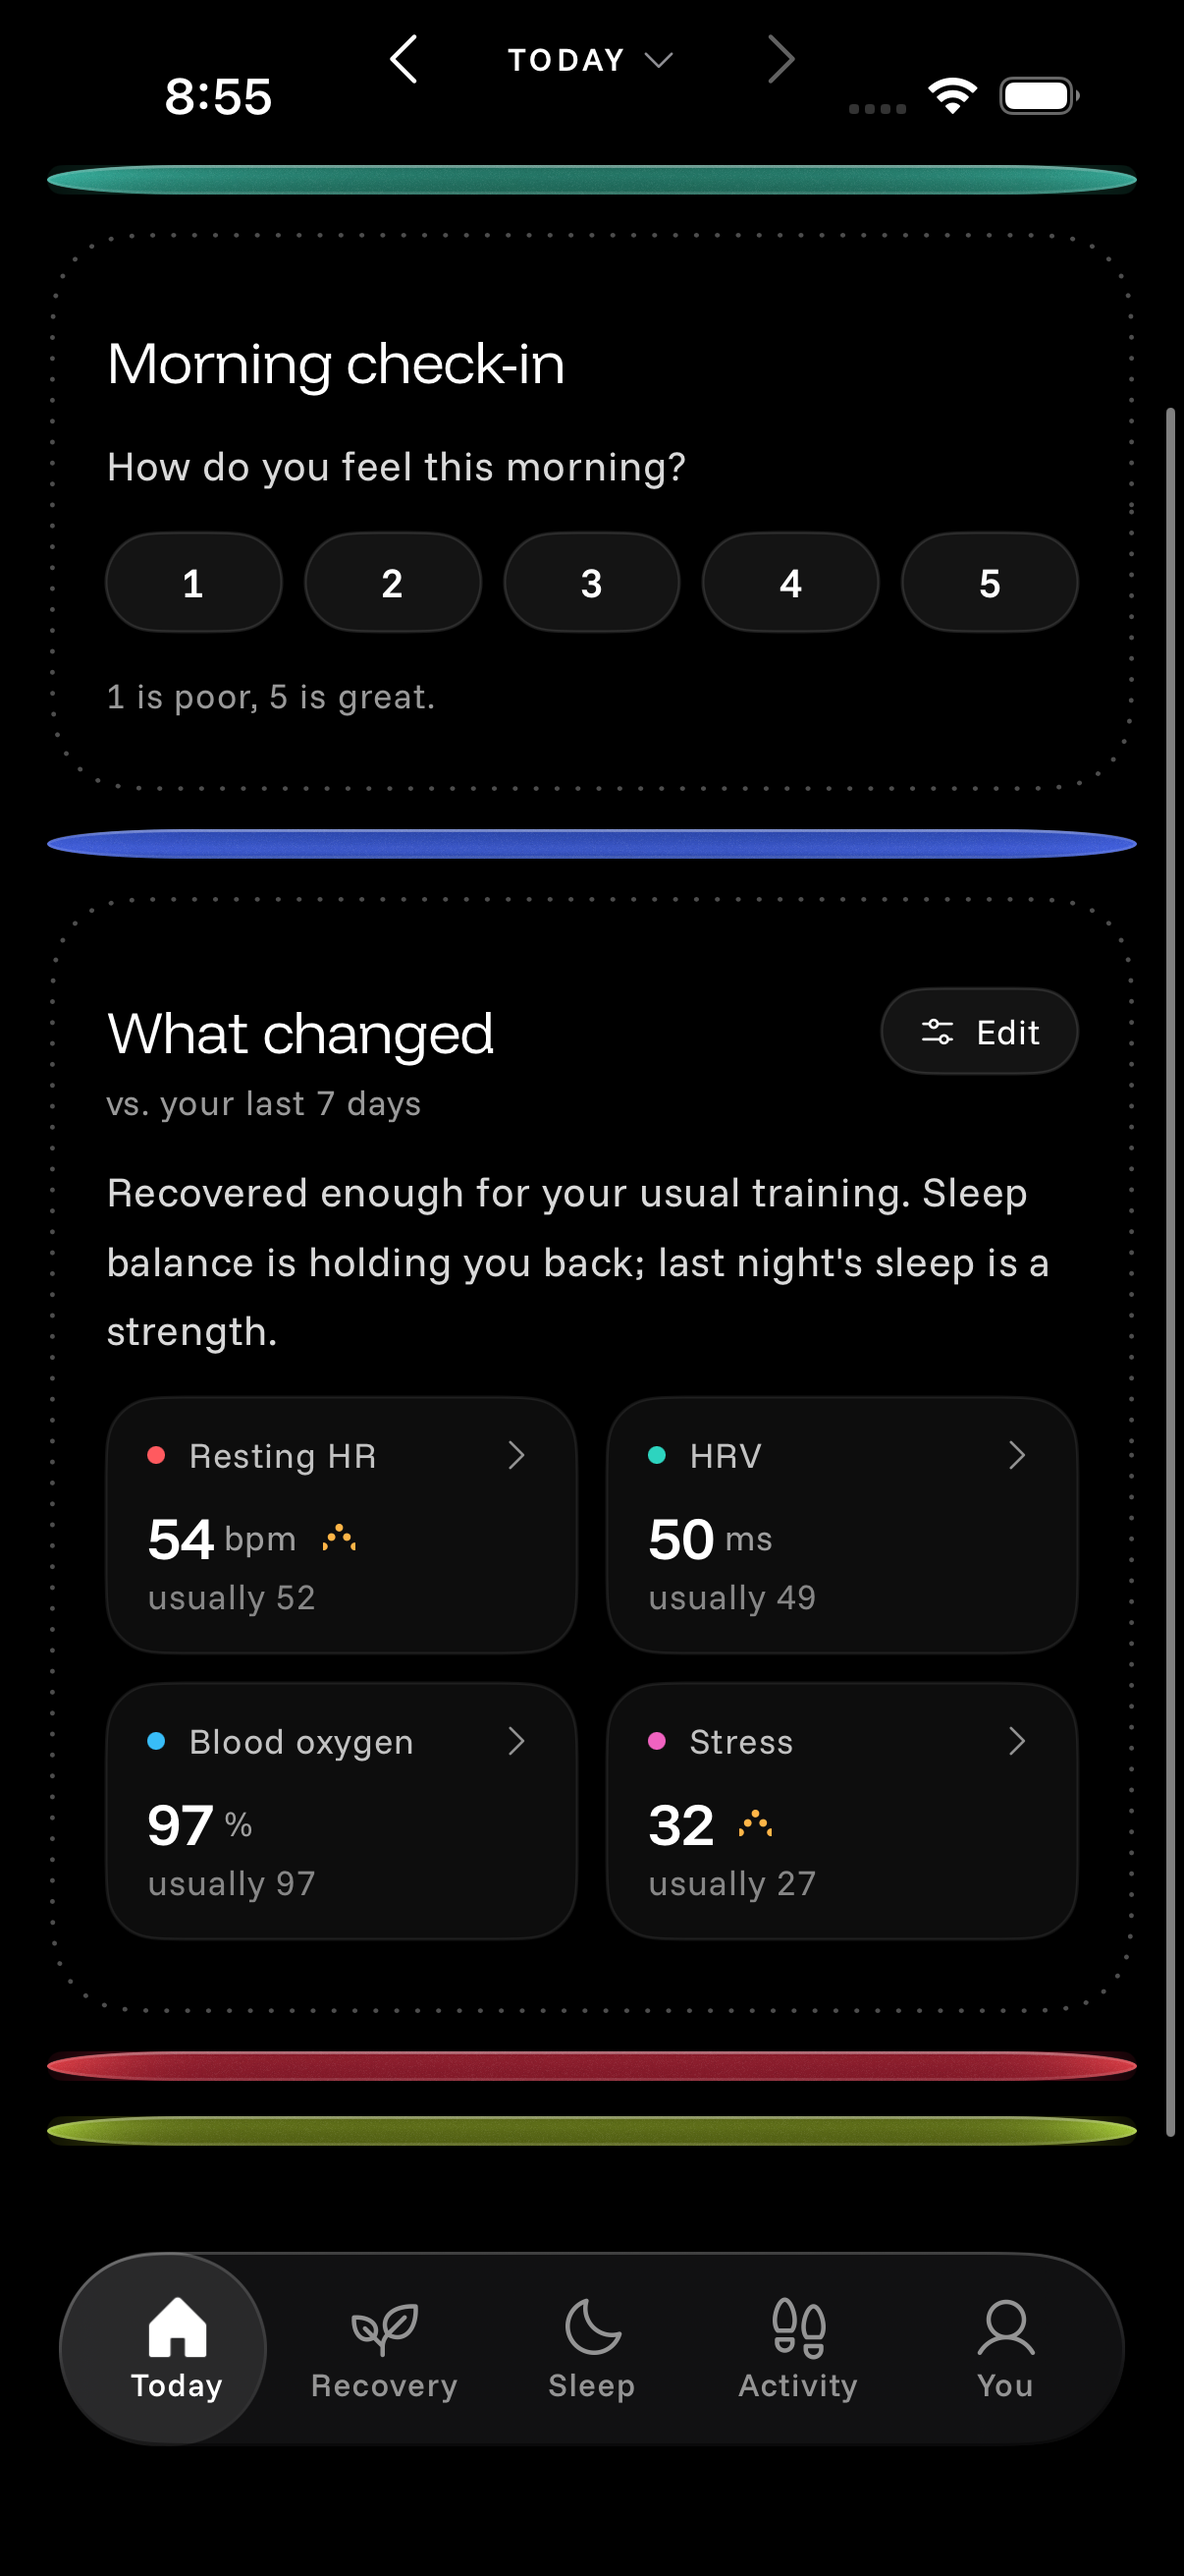
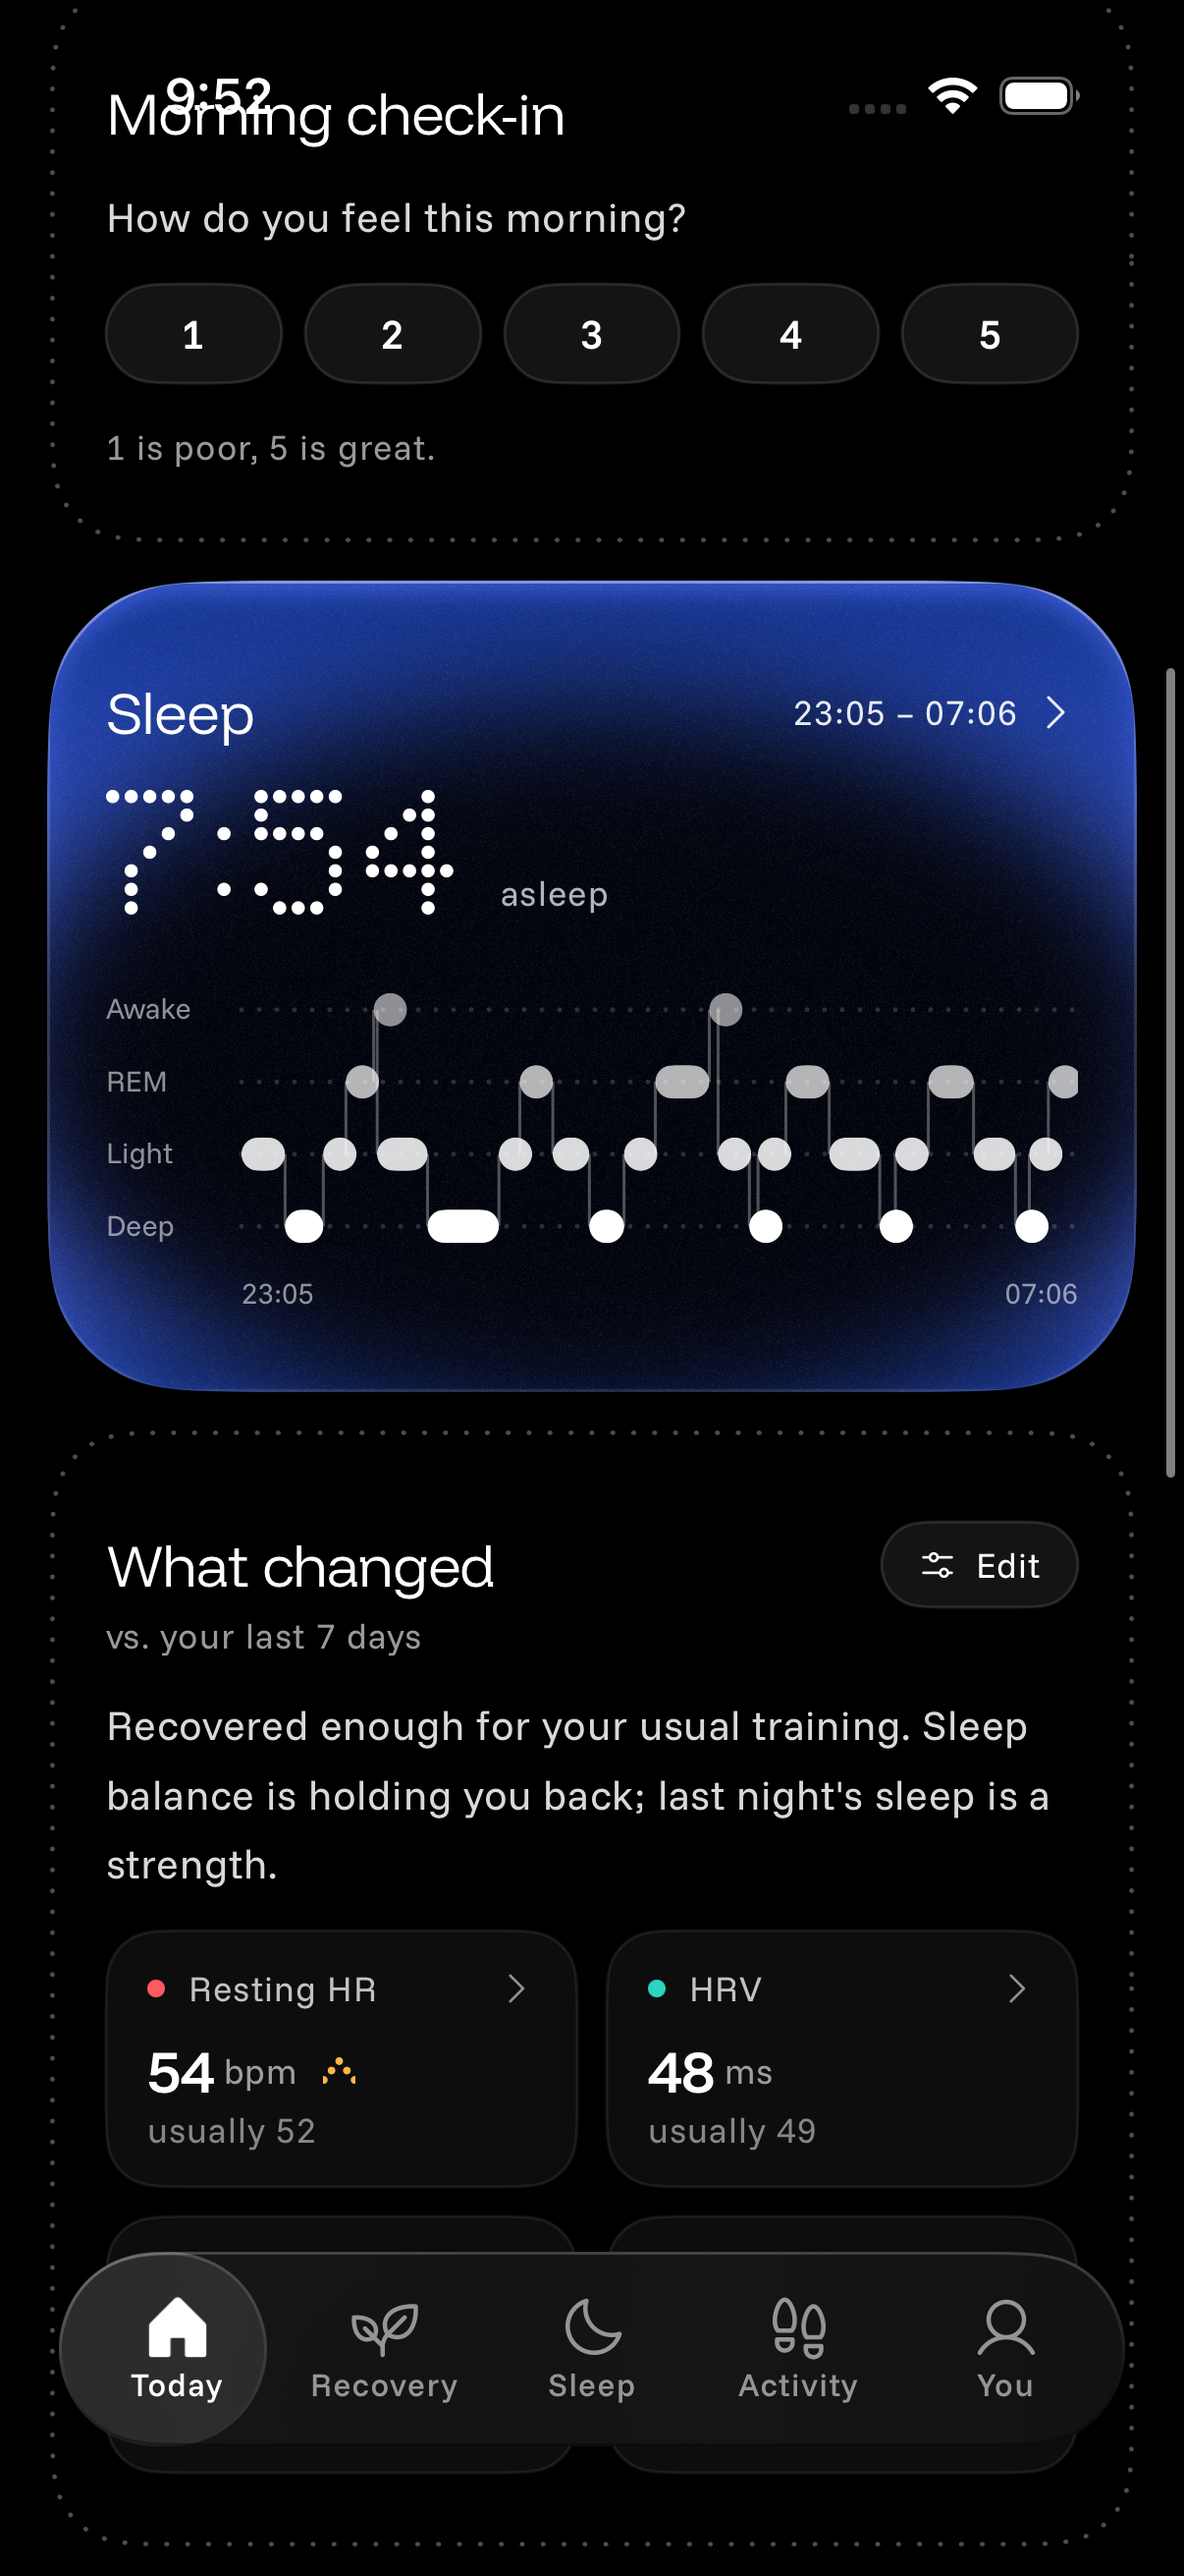
iOS U5: Today's screenshots, after the cards got their heights back
16 shots from run 39678015652 (4e57bbc): U5-today-1..5 down the evening screen,
U5-todaymorning-1..5 down the morning order, U5-todayempty-1..2, U5-tilesheet-1,
U5-detail-1 and U5-todayrecap-1..2. The first set was 30 pt capsules: GlowCard had
no height of its own. These show the overview with its arc and the three score bars,
What changed with its tiles, the heart card with its chart, Activity with its dot
bars, Sleep with its hypnogram, the check-in on a morning, the week on a Monday and
the empty day.

UI-PARITY gains the row for sizing a card from its content, and UPSTREAM the note
that a bare GeometryReader has no height — the lesson that cost this card its first
screenshot set.

diff --git a/docs/ios/UPSTREAM.md b/docs/ios/UPSTREAM.md
@@ -845,6 +845,13 @@ Two traps in one screen, both worth knowing before U6-U9:
   is the same behaviour.
 - **The floating bar eats a tap that lands on its rectangle**, including a line that is "in the
   window" and reports `isHittable == true`. Anything a test taps must be above `navBar.top`.
+- **`GlowCard` must be told to size from its content.** SwiftUI's bare `GeometryReader` has no
+  height of its own, so a glow card in a `VStack` that proposes none collapses to 10 pt with its
+  text clipped — which is what the first screenshots showed: every Today card was a thin coloured
+  capsule, and the page looked like the overview and the three glowing cards were missing. Compose
+  measures a card from its content, so `GlowCard(sizesToContent: true)` now draws the glow behind
+  the content and lets the content set the height. The Design lab keeps the old form, which is only
+  ever right under its `frame(height: 160)`.
 
 Red runs, in order: 39640117088 (the two interop errors), 39644024771 / 39647481836 / 39649434424 /
 39655540385 / 39658773525 (`testToday`'s off-screen tap, one hypothesis each, the last five all the

diff --git a/docs/ios/UI-PARITY.md b/docs/ios/UI-PARITY.md
@@ -953,6 +953,7 @@ ports there.
 | Compose element or string (file:line) | Swift (file:line) | Status |
 |---|---|---|
 | `contentPadding: PaddingValues = LocalCardPadding.current` (96) | `GlowCard`'s `contentPadding ?? cardPadding` (GlowCard.swift:244); the inset comes from `glowCardPadding`, which `GlowScreenList` sets and Today sets to `wideCardPadding` (TodayScreen.swift:79) | ported |
+| the card measures from its content (`Column(Modifier.padding(contentPadding))` inside a `Box` that wraps the content, 108-160) | `GlowCard(sizesToContent: true)` (GlowCard.swift:245-252) draws the glow behind the content, so the content sets the height; Today's four cards use it (TodayScreen.swift:287, 656, 726, 762). The older `GeometryReader` form is kept for the Design lab, which imposes `frame(height: 160)` | ported |
 
 ## `app/src/main/kotlin/org/openstrap/app/ui/theme/Theme.kt` — the colours Today names (card U5)
 
